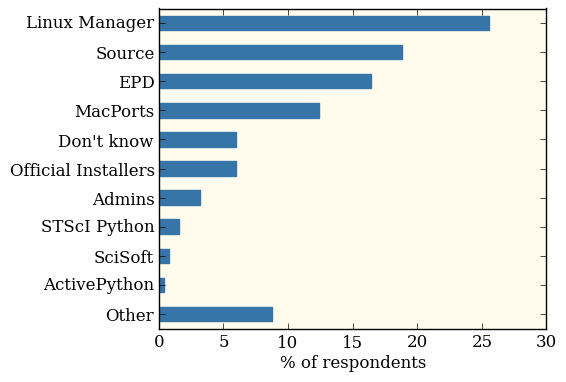
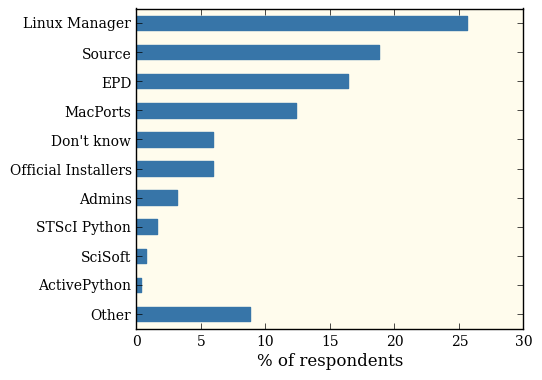
Updated font size in plots

diff --git a/plot.py b/plot.py
@@ -7,6 +7,8 @@ import numpy as np
 from matplotlib import pyplot as plt
 
 plt.rc('font', family='serif')
+plt.rc('xtick', labelsize='small')
+plt.rc('ytick', labelsize='small')
 
 DATA = np.loadtxt('data/versions-astro.csv', delimiter=',', dtype='|S200')
 
